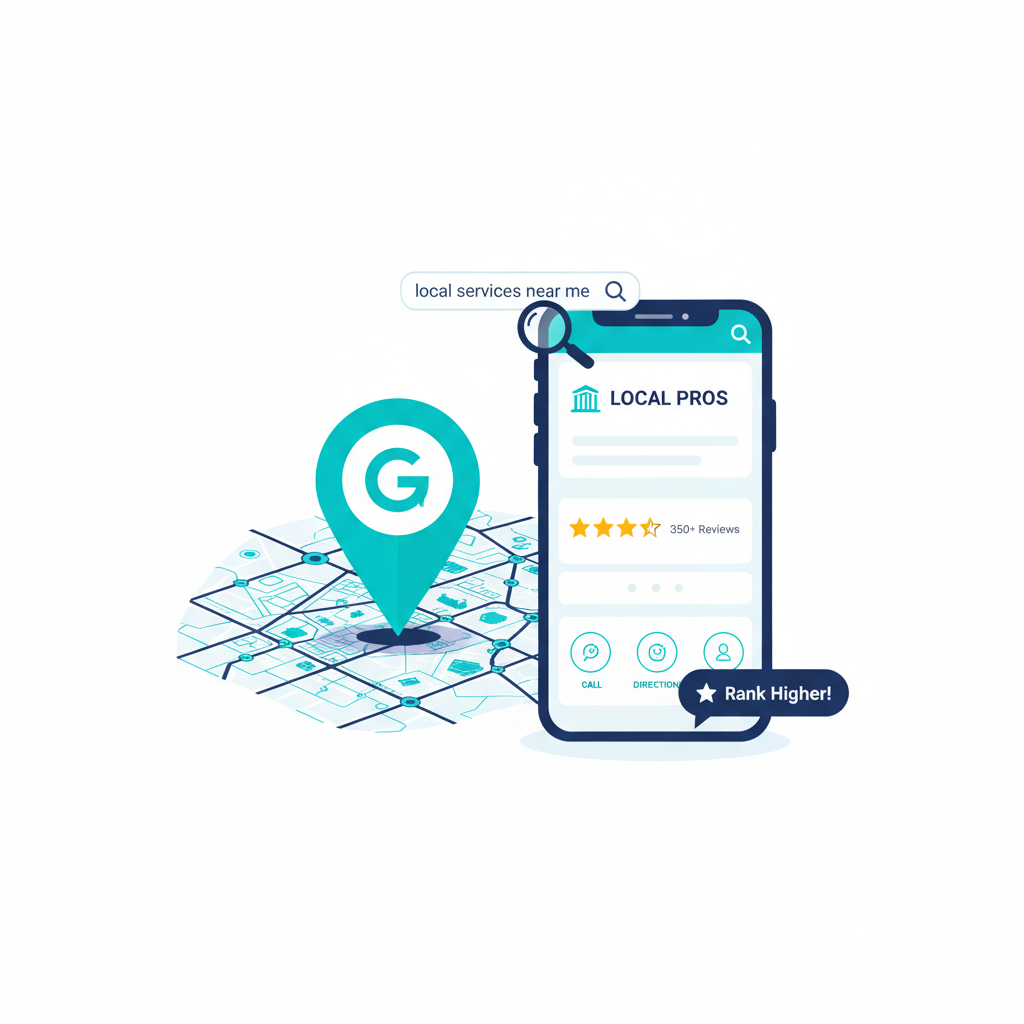
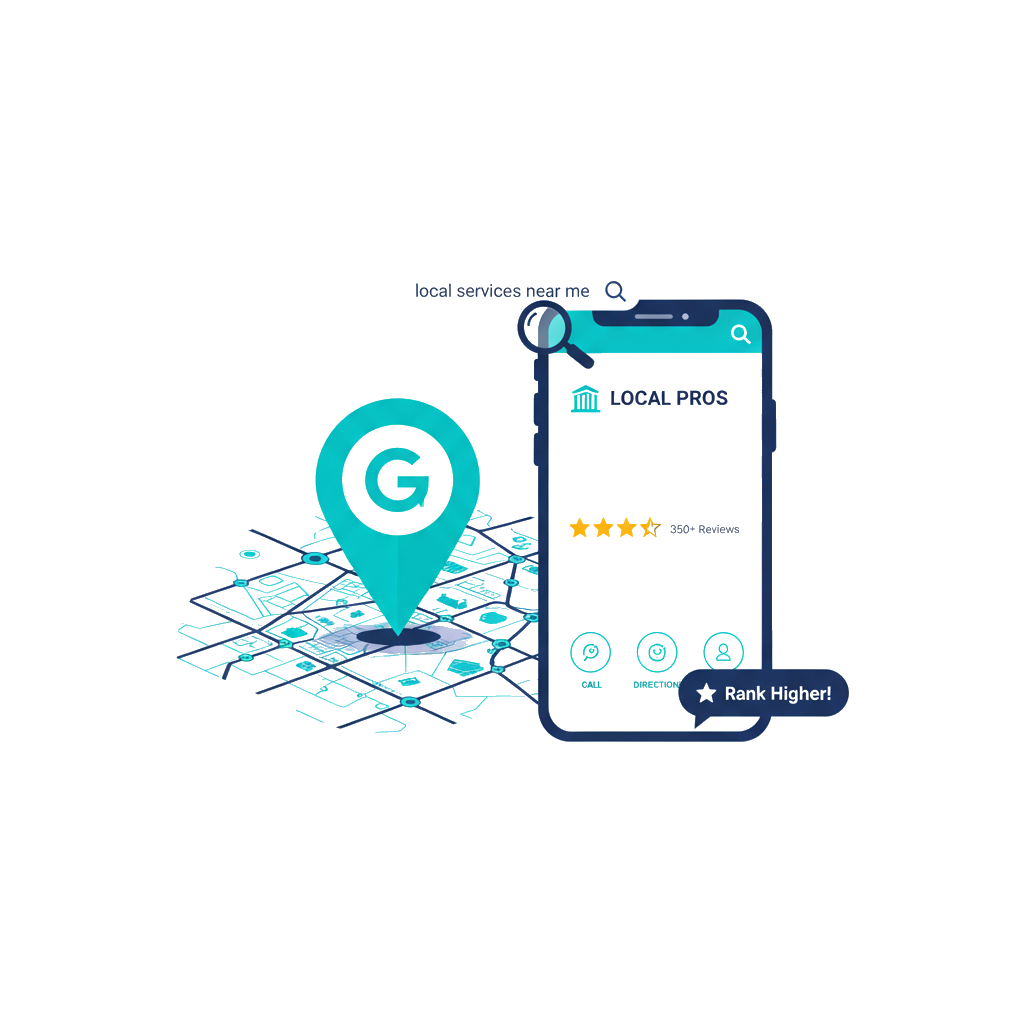
Make illustration backgrounds transparent to blend with any background

diff --git a/styles.css b/styles.css
@@ -584,13 +584,7 @@ body {
     display: flex;
     align-items: center;
     justify-content: center;
-    background: var(--bg-white);
-    padding: 40px;
-    border-radius: 20px;
-}
-
-.service-section:nth-child(even) .service-visual {
-    background: var(--bg-white);
+    padding: 20px;
 }
 
 .service-illustration {
